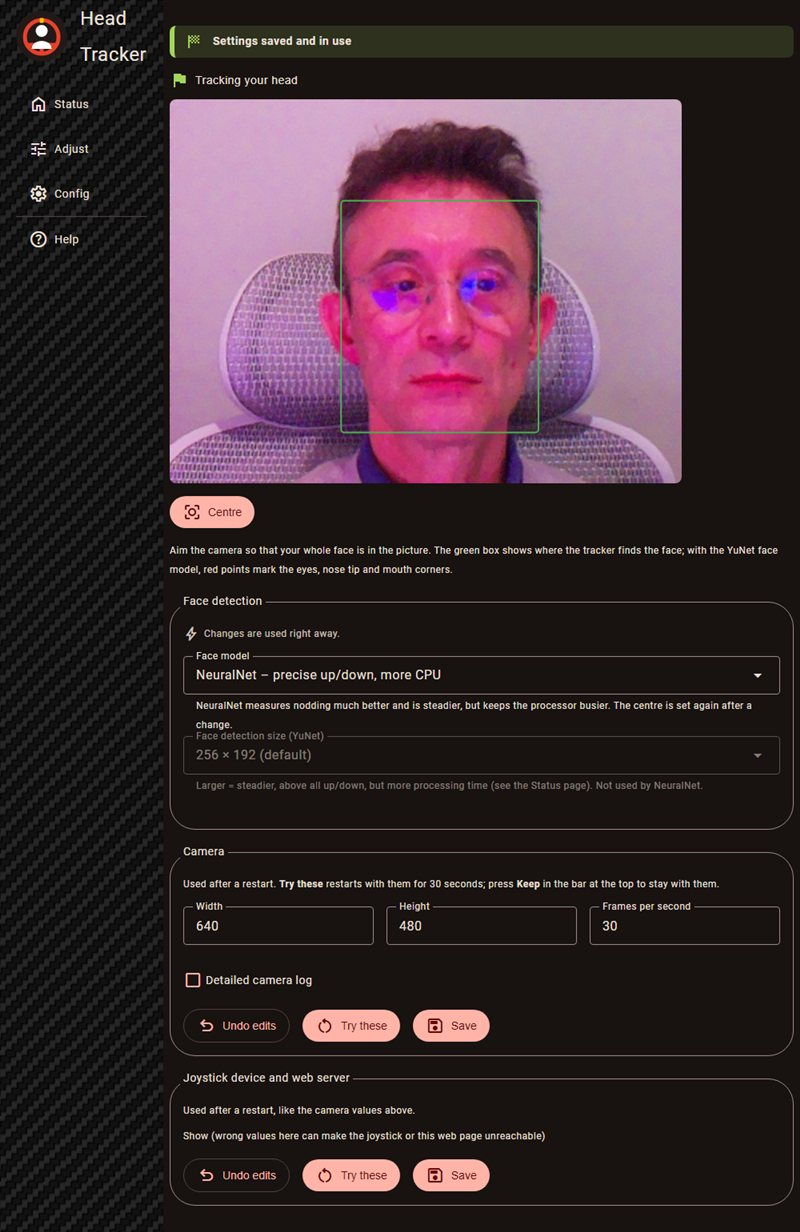
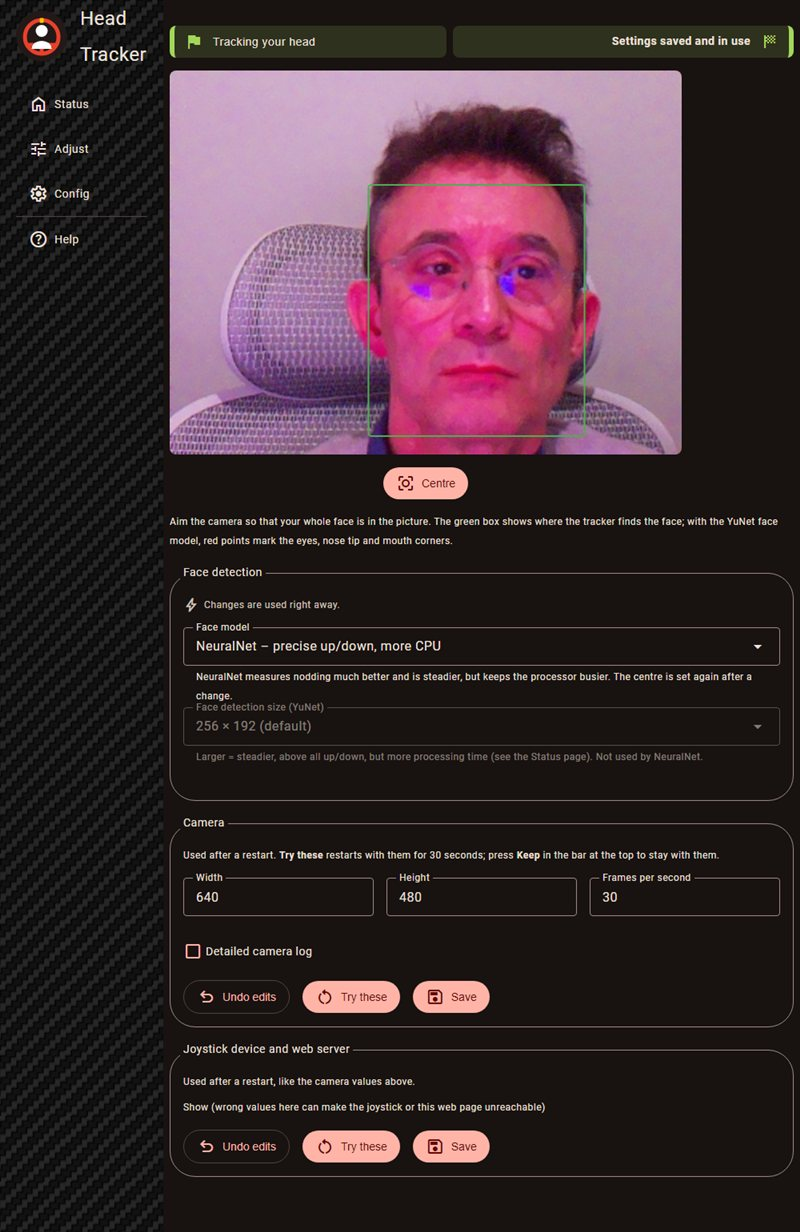
Web app: top bar in two parts - tracker state on the left, settings state on the right; Centre button centred under the camera picture

diff --git a/templates/statusbar.html b/templates/statusbar.html
@@ -1,29 +1,48 @@
-<!-- Status bar on every page: are the current settings saved, and in use? -->
+<!-- Bar at the top of every page, in two parts:
+     left:  what the tracker is doing right now (flag and colour bar on the left).
+            Pages call window.htTrackState(state) with /state's answer, or null
+            when there is no connection.
+     right: are the current settings saved, and in use? (flag and colour bar on
+            the right). Polls /status by itself.
+     Side by side on wide screens, one above the other on narrow ones. -->
 <style>
-    .statusbar {
+    .topbar { display: flex; flex-wrap: wrap; gap: 8px; margin: 0 0 16px 0; }
+    .topbar > div {
         display: flex; flex-wrap: wrap; align-items: center; gap: 8px 12px;
-        padding: 8px 12px; margin: 0 0 16px 0; border-radius: 8px;
-        border-left: 6px solid var(--sb-color, #9e9e9e);
-        background: color-mix(in srgb, var(--sb-color, #9e9e9e) 16%, transparent);
+        padding: 8px 12px; border-radius: 8px;
+        background: color-mix(in srgb, var(--bar-color, #9e9e9e) 16%, transparent);
     }
-    .statusbar > i { color: var(--sb-color, #9e9e9e); }
-    .statusbar .sb-text { flex: 1 1 220px; }
+    .topbar > div > i { color: var(--bar-color, #9e9e9e); }
+
+    .track-state { flex: 1 1 220px; font-weight: 500; border-left: 6px solid var(--bar-color, #9e9e9e); }
+    .track-state.ts-ok { --bar-color: var(--success); }
+    .track-state.ts-wait { --bar-color: var(--warning); }
+    .track-state.ts-error { --bar-color: var(--error); }
+
+    .statusbar { flex: 1 1 300px; justify-content: flex-end; text-align: right; border-right: 6px solid var(--bar-color, #9e9e9e); }
+    .statusbar .sb-text { flex: 1 1 200px; }
     .statusbar .sb-text b { display: block; }
     .statusbar .sb-text small { opacity: 0.8; }
-    .statusbar nav { margin: 0; gap: 8px; flex-wrap: wrap; }
+    .statusbar nav { order: 3; flex-basis: 100%; justify-content: flex-end; margin: 0; gap: 8px; flex-wrap: wrap; }
+    .statusbar nav:not(:has(button:not([style*="none"]))) { display: none; }
     .statusbar button { margin: 0; }
     /* own class names: BeerCSS already styles "error" */
-    .statusbar.sb-ok { --sb-color: var(--success); }
-    .statusbar.sb-changed { --sb-color: var(--warning); }
-    .statusbar.sb-busy { --sb-color: var(--info); }
-    .statusbar.sb-error { --sb-color: var(--error); }
+    .statusbar.sb-ok { --bar-color: var(--success); }
+    .statusbar.sb-changed { --bar-color: var(--warning); }
+    .statusbar.sb-busy { --bar-color: var(--info); }
+    .statusbar.sb-error { --bar-color: var(--error); }
 </style>
+<div class="topbar">
+<div class="track-state" id="track-state" role="status" aria-live="polite">
+    <i id="ts-icon">hourglass_empty</i>
+    <span id="ts-text">Waiting for the tracker …</span>
+</div>
 <div class="statusbar" id="statusbar" role="status" aria-live="polite">
-    <i id="sb-icon">hourglass_empty</i>
     <div class="sb-text">
         <b id="sb-title">Checking the settings …</b>
         <small id="sb-detail"></small>
     </div>
+    <i id="sb-icon">hourglass_empty</i>
     <nav>
         <button class="small" id="sb-save" style="display: none"><i>save</i><span>Save</span></button>
         <button class="small border" id="sb-revert" style="display: none"><i>undo</i><span>Back to saved</span></button>
@@ -33,7 +52,23 @@
         <button class="small border" id="sb-dismiss" style="display: none"><i>close</i><span>OK</span></button>
     </nav>
 </div>
+</div>
 <script>
+    // Tracker state, like race flags: green = running, yellow = wait, red =
+    // stopped. The text says the same, so it does not depend on telling colours apart.
+    window.htTrackState = s => {
+        const [kind, icon, text] =
+            !s ? ["error", "link_off", "No connection to the tracker"] :
+            !s.face ? ["error", "flag", "No face found"] :
+            !s.centred ? ["wait", "flag", "Setting the centre …"] :
+            ["ok", "flag", "Tracking your head"];
+        document.getElementById("track-state").className = "track-state ts-" + kind;
+        const i = document.getElementById("ts-icon");
+        i.textContent = icon;
+        i.classList.toggle("fill", icon === "flag");  // solid flag (Material Symbols fill)
+        document.getElementById("ts-text").textContent = text;
+    };
+
     (() => {
         const el = id => document.getElementById(id);
         const bar = el("statusbar");

diff --git a/templates/config.html b/templates/config.html
@@ -40,15 +40,16 @@
         .camera-size > .field { flex: 1 1 140px; margin-top: 0 !important; }
         .camera-size { margin-top: 16px; }
         fieldset { margin-top: 16px; }
+        /* Centre button in the middle under the picture */
+        .camera-actions { max-width: 640px; justify-content: center; }
     </style>
     <main class="responsive">
         {{> statusbar.html}}
-        {{> trackstate.html}}
         <div class="camera-box">
             <img src="/image" class="round" alt="Camera" id="camera">
             <svg id="overlay" viewBox="0 0 640 480" preserveAspectRatio="none"></svg>
         </div>
-        <nav>
+        <nav class="camera-actions">
             <button id="centre" title="Look straight at the screen, then press">
                 <i>center_focus_strong</i>
                 <span>Centre</span>

diff --git a/templates/status.html b/templates/status.html
@@ -26,7 +26,7 @@
         /* Phones: everything in the middle */
         @media (max-width: 600px) {
             .home { text-align: center; }
-            .home .track-state, .home .status-grid, .home nav { justify-content: center; }
+            .home .status-grid, .home nav { justify-content: center; }
             .home .values { margin: 0 auto; }
         }
     </style>
@@ -34,7 +34,6 @@
         {{> statusbar.html}}
         <div class="home">
         <h5>Head tracker</h5>
-        {{> trackstate.html}}
         <div class="status-grid">
             <div class="stick" title="Joystick position"><div class="dot" id="dot"></div></div>
             <table class="values">

diff --git a/templates/adjust.html b/templates/adjust.html
@@ -218,7 +218,10 @@
                 };
                 place("x", s.yaw, s.x);
                 place("y", s.pitch, -s.y);
-            } catch (e) { /* no connection: the dots stay where they are */ }
+                window.htTrackState(s);
+            } catch (e) {
+                window.htTrackState(null);  // no connection: the dots stay where they are
+            }
             setTimeout(live, 100);
         }
 

diff --git a/README.md b/README.md
@@ -156,7 +156,11 @@ The pages follow Material Design 3 (with [BeerCSS](https://www.beercss.com)). Th
 
 ### Status bar
 
-Every page starts with a bar that shows whether the settings are saved and in use:
+Every page starts with a bar in two parts, side by side (on a phone one above the other).
+
+**Left, with its flag and colour bar on the left:** what the tracker is doing right now, like a race flag: green "Tracking your head", yellow "Setting the centre …", red "No face found", or "No connection to the tracker".
+
+**Right, with its icon and colour bar on the right:** whether the settings are saved and in use:
 
 | Bar | Meaning | Buttons |
 |---|---|---|
@@ -174,7 +178,7 @@ Every page starts with a bar that shows whether the settings are saved and in us
 
 The start page shows the tracker live, about five times per second:
 
-- whether a face is found and the centre position is set, with a flag like in racing: green "Tracking your head", yellow "Setting the centre …", red "No face found",
+- whether a face is found and the centre position is set (left part of the bar at the top),
 - the joystick position as a dot in a square,
 - head turn and tilt in degrees, joystick X and Y,
 - camera and tracker frames per second, the face model in use, processing time and the time from camera frame to joystick values.
@@ -208,7 +212,7 @@ How head movements become joystick movements. Every change is used right away; n
 
 ![Config page with the live camera picture and the face found by the tracker](docs/images/config.jpg)
 
-Setting up the camera, the face model and the connections. At the top are the tracker state and the live camera picture, updated about ten times per second. Use it to aim the camera at your head. A green box shows where the tracker finds the face; with the YuNet face model, five red points mark the eyes, nose tip and mouth corners. Below the picture is the Centre button. The picture is also available on its own at `/image`.
+Setting up the camera, the face model and the connections. At the top is the live camera picture, updated about ten times per second. Use it to aim the camera at your head. A green box shows where the tracker finds the face; with the YuNet face model, five red points mark the eyes, nose tip and mouth corners. Below the picture is the Centre button. The picture is also available on its own at `/image`.
 
 **Face detection:** used right away, and you see the effect in the picture.
 
